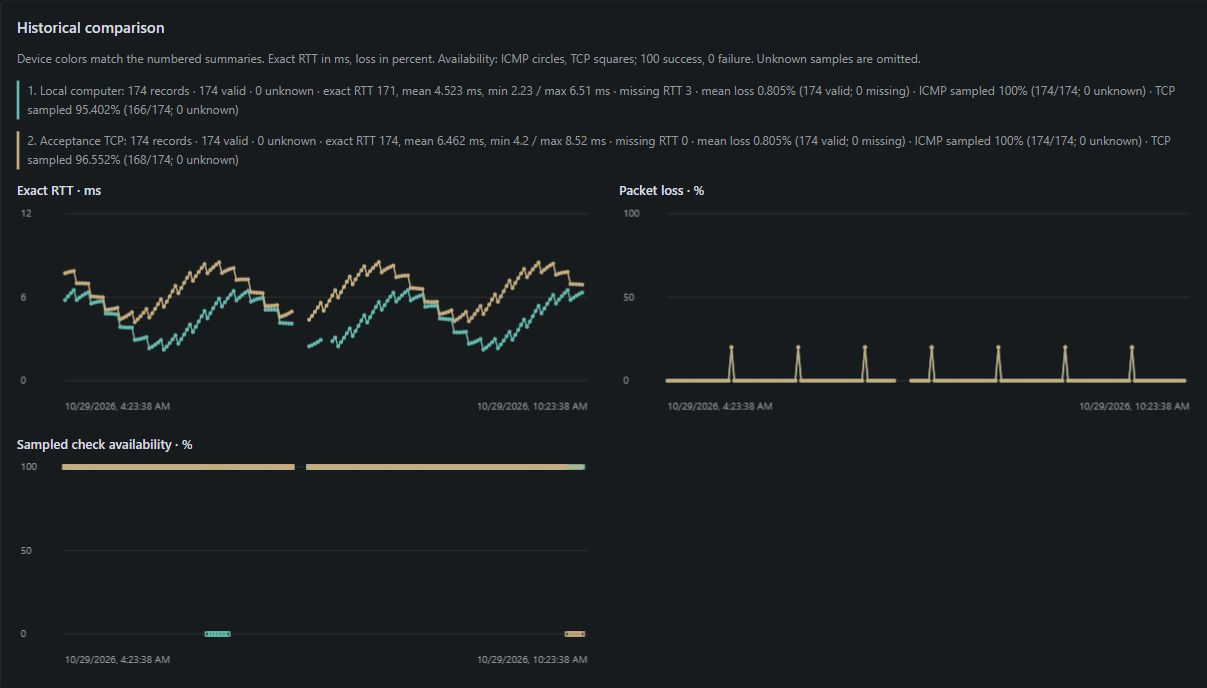
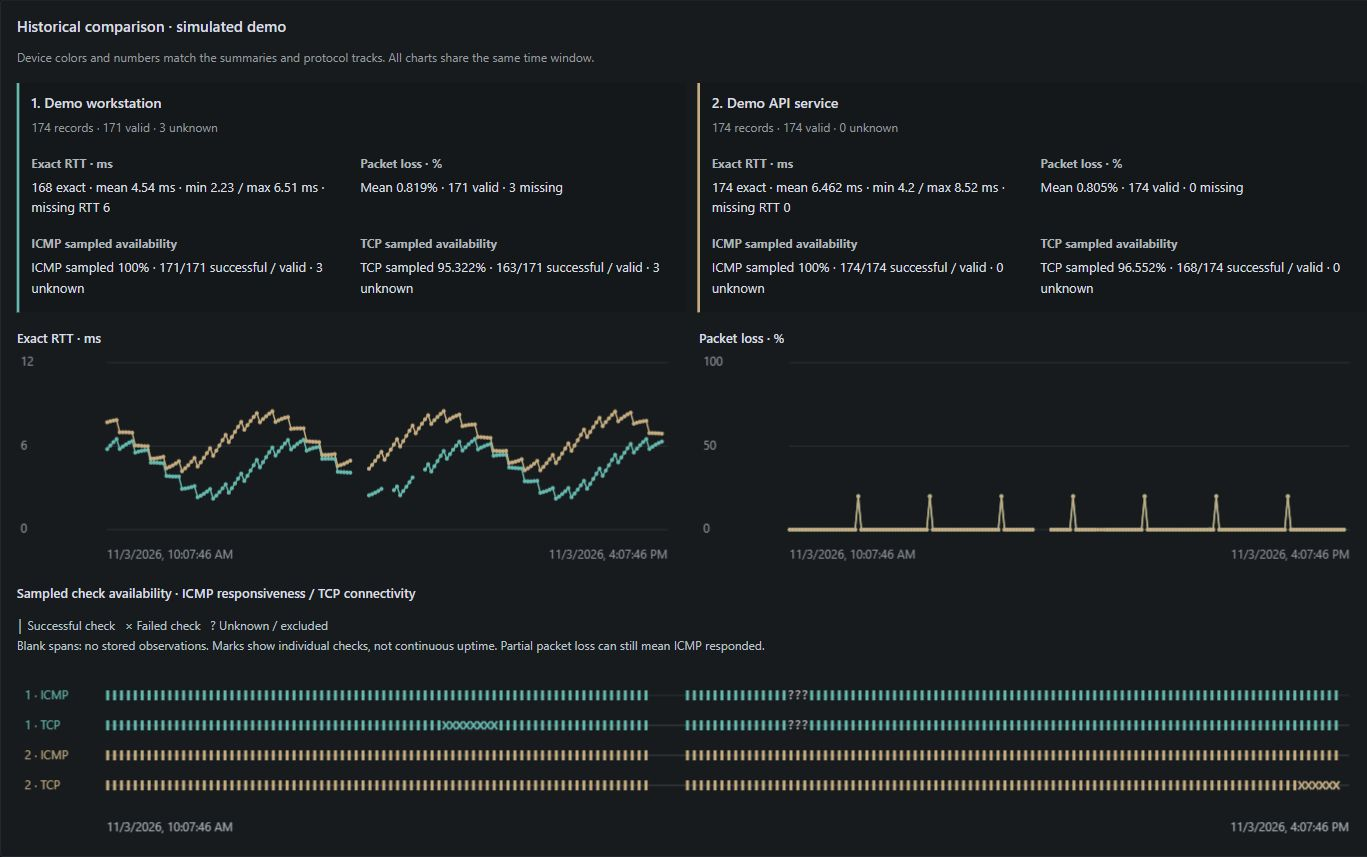
Update historical comparison screenshot

diff --git a/docs/screenshots/README.md b/docs/screenshots/README.md
@@ -2,6 +2,8 @@
 
 Capture date: 29 October 2026. Source checkpoint: `5b3db02ff8d3493b3729985951cfeb7e211c4f8d`.
 
+**Historical comparison update (3 November 2026):** `09-device-comparison.png` now shows the UI from `5b29243f2ea0b4f2409f5895bbee9999ff37f98d`, with separate labeled ICMP/TCP tracks, grouped statistics, and explicit success/failure/unknown indicators. This capture uses simulated observations in a separate disposable database (four generic loopback targets, 700 observations; two devices shown), including partial loss, TCP failures, unknown checks, bounded RTT and collection gaps. It was captured at a requested 1600 × 1200 desktop viewport and cropped to the comparison panel. The simulated-demo title is the only visible demo-specific template addition. The image was individually privacy-reviewed and converted from browser JPEG to RGB PNG without resizing or pixel edits; only IHDR/IDAT/IEND chunks remain. No real inventory or production database was accessed. The original capture date, fixture and viewport details below apply to the other images.
+
 ## Provenance and scope
 
 These are browser captures of the current NetScope HTML/CSS/JavaScript and real API/analytics/report rendering, using **simulated demo data in a newly created disposable SQLite database**. They are not screenshots of the owner's real inventory or evidence of real network measurements/discovery. All device addresses are loopback (`127.0.0.1`–`127.0.0.4`); `example.com` is a reserved documentation domain entered into the DNS form without resolving it.
@@ -33,7 +35,7 @@ PASS means no personal/sensitive content was found in this review; it is not a g
 | [06-discovery-inventory.png](06-discovery-inventory.png) | Simulated responding/unresponsive/unknown loopback inventory; consent unchecked; no scan | 1207 × 764 | PASS |
 | [07-network-map.png](07-network-map.png) | Unconnected stored inventory, selection details, stale/unknown states and no invented links | 1207 × 776 | PASS |
 | [08-analytics-overview.png](08-analytics-overview.png) | Mean/median/p95/p99, loss distribution, sampled availability and incident statistics | 1222 × 1937 | PASS |
-| [09-device-comparison.png](09-device-comparison.png) | Two-device RTT/loss/availability comparison and gaps | 1207 × 688 | PASS |
+| [09-device-comparison.png](09-device-comparison.png) | Two-device RTT/loss comparison, separate ICMP/TCP sampled-availability tracks, unknown observations and gaps | 1367 × 857 | PASS |
 | [10-reporting-export.png](10-reporting-export.png) | PDF export controls and real demo-data download-started status | 1222 × 483 | PASS |
 | [11-diagnostics.png](11-diagnostics.png) | Safe example.com/loopback inputs; DNS/traceroute not executed | 1222 × 745 | PASS |
 
@@ -56,6 +58,6 @@ PASS means no personal/sensitive content was found in this review; it is not a g
[7 lines of base64/hex data omitted]
